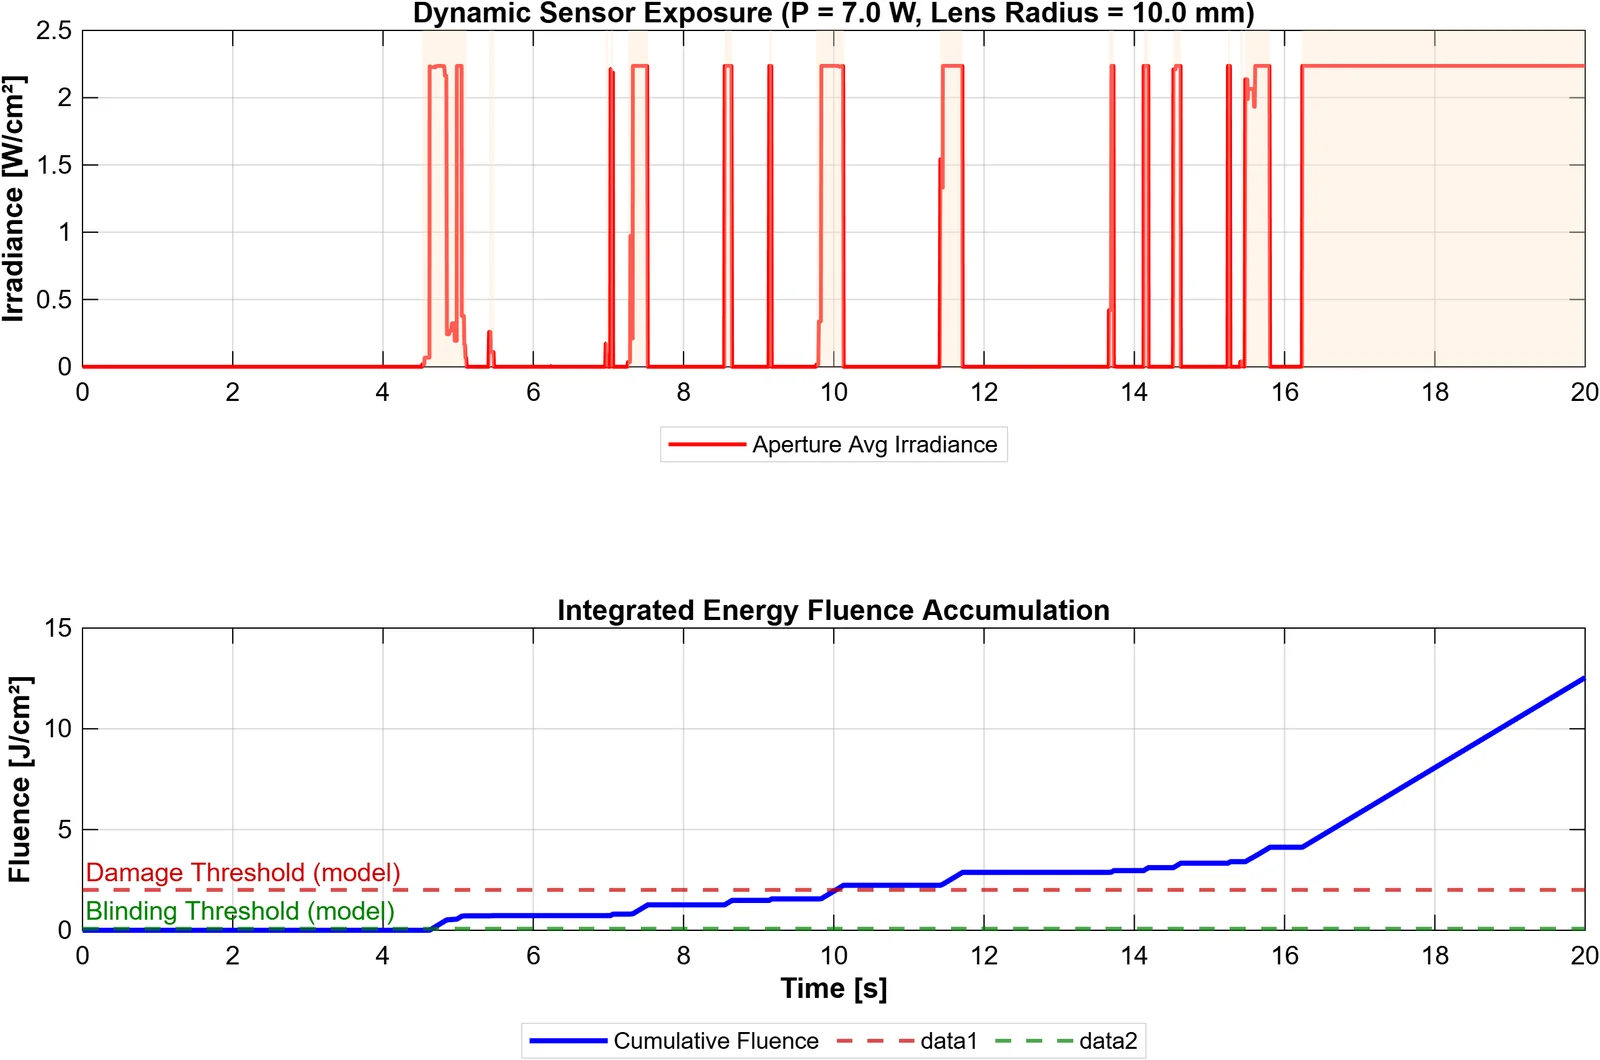
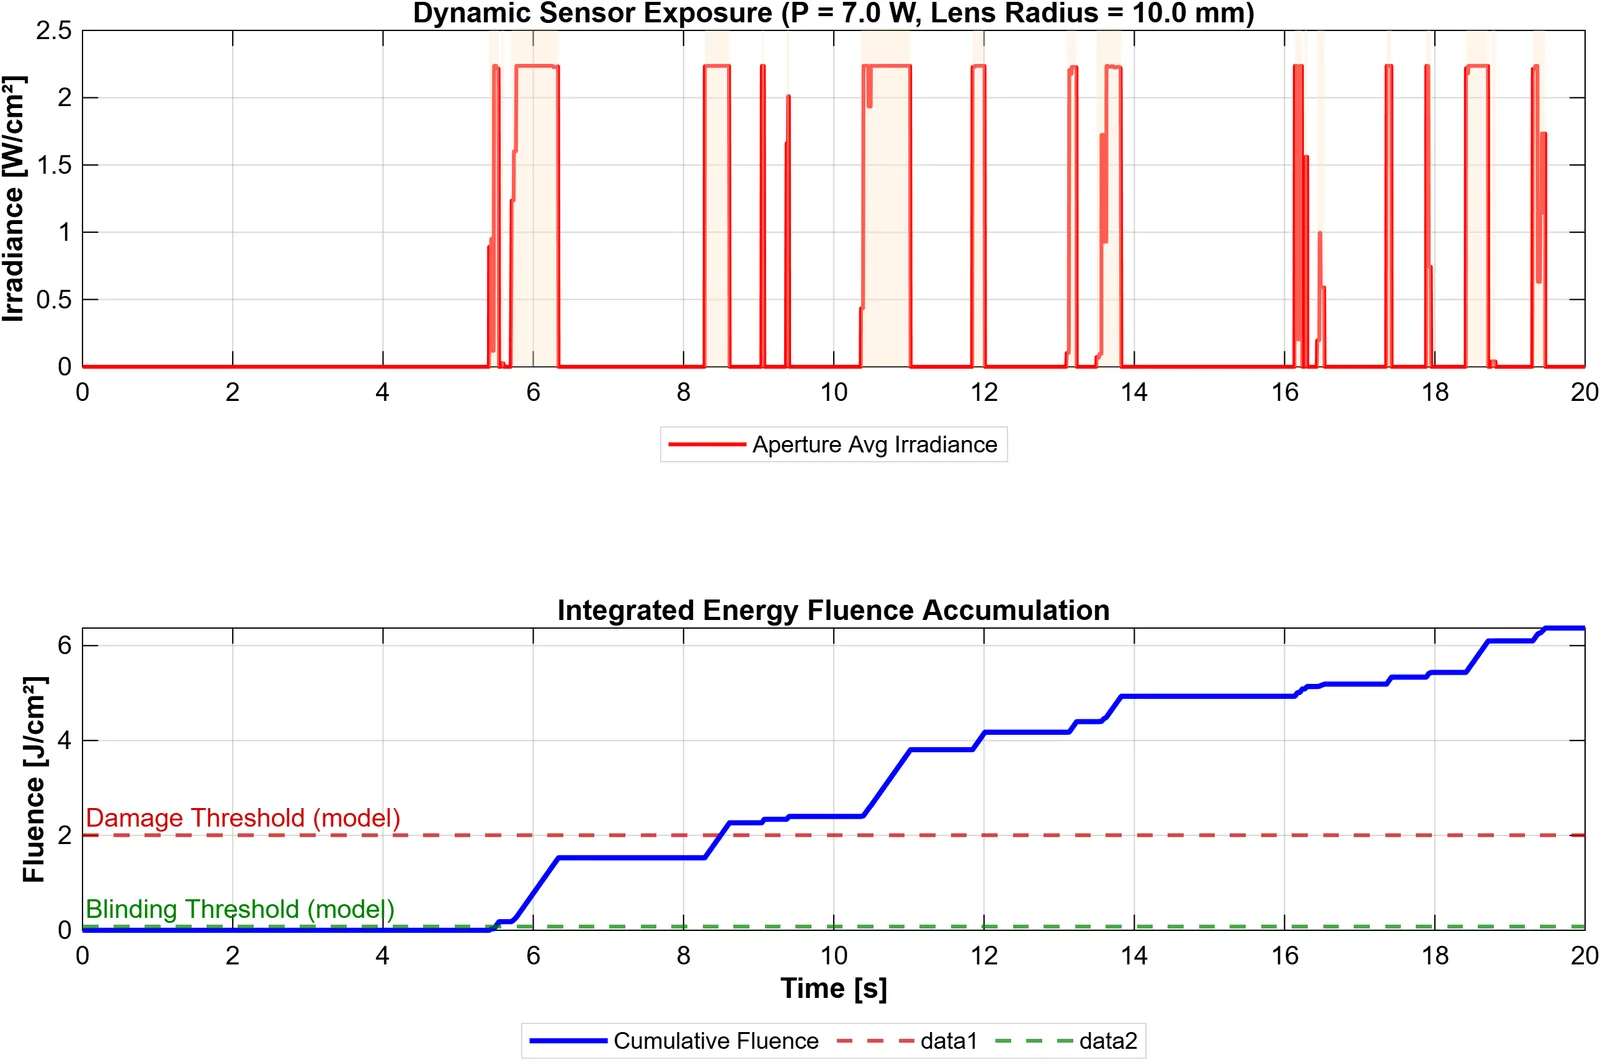
v2 thesis

diff --git a/thesis.html b/thesis.html
@@ -144,14 +144,6 @@
     </div>
     <p class="mono pipeline-loop" data-reveal><i class="fas fa-rotate-left"></i> Loop closes on every camera frame</p>
 
-    <div class="media-grid" style="margin-top: 40px">
-      <figure class="figure span-2" data-reveal style="max-width:720px;width:100%;margin-inline:auto">
-        <a class="figure-media slot light ratio-contain" style="aspect-ratio:1128/1002" data-slot="thesis/media/architecture" data-alt="System flowchart" data-caption="System flowchart — From YOLO detection and Kalman filtering, through control, servo and physics simulation, to the fire / no-fire decision." data-lightbox="thesis">
-          <div class="slot-empty"><i class="fas fa-image"></i><span>System flowchart — coming soon</span><code></code></div>
-        </a>
-        <figcaption><b>System flowchart</b><span>From YOLO detection and Kalman filtering, through control, servo and physics simulation, to the fire / no-fire decision.</span></figcaption>
-      </figure>
-    </div>
   </div>
 </section>
 
@@ -165,11 +157,17 @@
     </div>
 
     <div class="media-grid">
-      <figure class="figure span-2" data-reveal>
-        <a class="figure-media slot light ratio-contain" style="aspect-ratio:2410/1398" data-slot="thesis/media/tracking-response" data-alt="Gimbal tracking performance" data-caption="Gimbal tracking performance — Yaw and pitch following a live YOLO-fed target, with total pointing error below." data-lightbox="thesis">
-          <div class="slot-empty"><i class="fas fa-image"></i><span>Live tracking performance — coming soon</span><code></code></div>
+      <figure class="figure" data-reveal>
+        <a class="figure-media slot light ratio-contain" style="aspect-ratio:16/10" data-slot="thesis/media/tracking-response" data-alt="Simulated tracking performance" data-caption="Simulated tracking performance — Yaw and pitch following a YOLO-fed target in the end-to-end Simulink framework, with the total pointing error below." data-lightbox="thesis">
+          <div class="slot-empty"><i class="fas fa-image"></i><span>Simulated tracking performance — coming soon</span><code></code></div>
         </a>
-        <figcaption><b>Gimbal tracking performance</b><span>Yaw and pitch following a live YOLO-fed target, with the total pointing error below.</span></figcaption>
+        <figcaption><b>Simulated tracking performance</b><span>Yaw and pitch following a YOLO-fed target in the end-to-end Simulink framework, with the total pointing error below.</span></figcaption>
+      </figure>
+      <figure class="figure" data-reveal style="--d:.06s">
+        <a class="figure-media slot light ratio-contain" style="aspect-ratio:16/10" data-slot="thesis/media/ga-performance" data-alt="Genetic-algorithm controller tuning" data-caption="Genetic-algorithm controller tuning — Best ISMC gain set found by the GA: α and β tracking, tracking error, and the performance metrics it optimises." data-lightbox="thesis">
+          <div class="slot-empty"><i class="fas fa-image"></i><span>Genetic-algorithm controller tuning — coming soon</span><code></code></div>
+        </a>
+        <figcaption><b>Genetic-algorithm controller tuning</b><span>Best ISMC gain set found by the GA: α and β tracking, tracking error, and the performance metrics it optimises.</span></figcaption>
       </figure>
     </div>
   </div>
@@ -186,16 +184,16 @@
 
     <div class="media-grid">
       <figure class="figure" data-reveal>
-        <a class="figure-media slot light ratio-contain" style="aspect-ratio:4/3" data-slot="thesis/media/prototype" data-alt="Full assembly in Siemens NX" data-caption="Full assembly in Siemens NX — Gimbal, actuators and electronics enclosure of the C-UAS platform." data-lightbox="thesis">
-          <div class="slot-empty"><i class="fas fa-image"></i><span>Full assembly in Siemens NX — coming soon</span><code></code></div>
+        <a class="figure-media slot" style="aspect-ratio:1/1" data-slot="thesis/media/prototype" data-alt="The real gimbal" data-caption="The real gimbal — Assembled prototype: 3D-printed yaw–pitch gimbal, servo actuators and the Pixhawk controller." data-lightbox="thesis">
+          <div class="slot-empty"><i class="fas fa-image"></i><span>The real gimbal — coming soon</span><code></code></div>
         </a>
-        <figcaption><b>Full assembly in Siemens NX</b><span>Gimbal, actuators and electronics enclosure of the C-UAS platform.</span></figcaption>
+        <figcaption><b>The real gimbal</b><span>Assembled prototype: 3D-printed yaw–pitch gimbal, servo actuators and the Pixhawk controller.</span></figcaption>
       </figure>
       <figure class="figure" data-reveal style="--d:.06s">
-        <a class="figure-media slot light ratio-contain" style="aspect-ratio:4/3" data-slot="thesis/media/cad-render" data-alt="2-axis gimbal" data-caption="2-axis gimbal — Yaw and pitch stages designed around the servo actuators." data-lightbox="thesis">
-          <div class="slot-empty"><i class="fas fa-image"></i><span>2-axis gimbal — coming soon</span><code></code></div>
+        <a class="figure-media slot light ratio-contain" style="aspect-ratio:1/1" data-slot="thesis/media/cad-render" data-alt="CAD assembly" data-caption="CAD assembly — Final assembly in Siemens NX, designed around the servos and the flight controller." data-lightbox="thesis">
+          <div class="slot-empty"><i class="fas fa-image"></i><span>CAD assembly — coming soon</span><code></code></div>
         </a>
-        <figcaption><b>2-axis gimbal</b><span>Yaw and pitch stages designed around the servo actuators.</span></figcaption>
+        <figcaption><b>CAD assembly</b><span>Final assembly in Siemens NX, designed around the servos and the flight controller.</span></figcaption>
       </figure>
     </div>
   </div>
@@ -206,41 +204,45 @@
   <div class="wrap">
     <div class="section-head" data-reveal>
       <span class="eyebrow laser">Results</span>
-      <h2>Field tests &amp; findings</h2>
-      <p>Headline numbers will be published after the thesis defence in November 2026.</p>
+      <h2>Live hardware test with a 7 W laser model</h2>
+      <p>The prototype tracked a moving hand target at roughly 1 m for a 20 s run. The recorded tracking data were then fed into the laser exposure model for a 7 W laser and a camera sensor of 10 mm radius.</p>
     </div>
 
-    <!-- RESULTS: replace "—" with the value, and remove class "pending" from the .metric -->
-    <div class="metrics">
-      <div class="card metric pending" data-reveal>
-        <span class="mono">Simulation · evasive target</span>
-        <span class="value">—<small>%</small></span>
-        <span class="label">Time on Target over an engagement</span>
+    <div class="metrics metrics-4">
+      <div class="card metric" data-reveal>
+        <span class="mono">Time on target · 10 mm-radius sensor</span>
+        <span class="value">16.8<small>%</small></span>
+        <span class="label">3.36 s of the 20 s run with the beam on a sensor of 10 mm radius</span>
       </div>
-      <div class="card metric pending" data-reveal style="--d:.06s">
-        <span class="mono">Field test</span>
-        <span class="value">—<small>mrad</small></span>
-        <span class="label">RMS pointing error while tracking</span>
+      <div class="card metric" data-reveal style="--d:.05s">
+        <span class="mono">Cumulative fluence</span>
+        <span class="value">6.37<small>J/cm²</small></span>
+        <span class="label">Above the modelled damage threshold of about 2 J/cm²</span>
       </div>
-      <div class="card metric pending" data-reveal style="--d:.12s">
-        <span class="mono">Field test</span>
-        <span class="value">—<small>m</small></span>
-        <span class="label">Range at which lock was held</span>
+      <div class="card metric" data-reveal style="--d:.1s">
+        <span class="mono">Time to sensor damage</span>
+        <span class="value">≈ 8.5<small>s</small></span>
+        <span class="label">From the start of the run, at ≈ 1 m range</span>
+      </div>
+      <div class="card metric" data-reveal style="--d:.15s">
+        <span class="mono">Median tracking error</span>
+        <span class="value">&lt; 1<small>°</small></span>
+        <span class="label">0.93° yaw · 0.64° pitch (IMU-measured vs desired)</span>
       </div>
     </div>
 
     <div class="media-grid" style="margin-top: 32px">
       <figure class="figure" data-reveal>
-        <a class="figure-media slot" style="aspect-ratio:3/2" data-slot="thesis/media/live-tracking" data-alt="Live hardware-in-the-loop test" data-caption="Live hardware-in-the-loop test — Webcam target tracking at ~30 fps, with angles streamed to the MATLAB controller." data-lightbox="thesis">
-          <div class="slot-empty"><i class="fas fa-image"></i><span>Live hardware-in-the-loop test — coming soon</span><code></code></div>
+        <a class="figure-media slot" style="aspect-ratio:638/390" data-slot="thesis/media/live-tracking" data-alt="Live target detection" data-caption="Live target detection — Open-palm target detected at ~30 fps; the yaw and pitch angles are streamed to the controller on the Pixhawk." data-lightbox="thesis">
+          <div class="slot-empty"><i class="fas fa-image"></i><span>Live target detection — coming soon</span><code></code></div>
         </a>
-        <figcaption><b>Live hardware-in-the-loop test</b><span>Webcam target tracking at ~30 fps, with angles streamed to the MATLAB controller.</span></figcaption>
+        <figcaption><b>Live target detection</b><span>Open-palm target detected at ~30 fps; the yaw and pitch angles are streamed to the controller on the Pixhawk.</span></figcaption>
       </figure>
       <figure class="figure" data-reveal style="--d:.06s">
-        <a class="figure-media slot light ratio-contain" style="aspect-ratio:3/2" data-slot="thesis/media/envelope" data-alt="Laser exposure at 0.8 W" data-caption="Laser exposure at 0.8 W — Irradiance on the sensor aperture and accumulated fluence, against modelled blinding and damage thresholds." data-lightbox="thesis">
-          <div class="slot-empty"><i class="fas fa-image"></i><span>Laser exposure at 0.8 W — coming soon</span><code></code></div>
+        <a class="figure-media slot light ratio-contain" style="aspect-ratio:638/390" data-slot="thesis/media/laser-7w" data-alt="Sensor exposure at 7 W" data-caption="Sensor exposure at 7 W — Irradiance on a 10 mm-radius sensor and the accumulated fluence, against the modelled blinding and damage thresholds." data-lightbox="thesis">
+          <div class="slot-empty"><i class="fas fa-image"></i><span>Sensor exposure at 7 W — coming soon</span><code></code></div>
         </a>
-        <figcaption><b>Laser exposure at 0.8 W</b><span>Irradiance on the sensor aperture and accumulated fluence, against modelled blinding and damage thresholds.</span></figcaption>
+        <figcaption><b>Sensor exposure at 7 W</b><span>Irradiance on a 10 mm-radius sensor and the accumulated fluence, against the modelled blinding and damage thresholds.</span></figcaption>
       </figure>
     </div>
 

diff --git a/style.css b/style.css
@@ -529,3 +529,7 @@ var(--bg-2);
 /* Plots and CAD renders with white backgrounds */
 .figure-media.light { background: #f5f6f8; }
 .figure-media.light.ratio-contain img { padding: 12px; object-fit: contain; }
+
+.metrics-4 { grid-template-columns: repeat(4, minmax(0, 1fr)); }
+@media (max-width: 1000px) { .metrics-4 { grid-template-columns: repeat(2, minmax(0, 1fr)); } }
+@media (max-width: 560px) { .metrics-4 { grid-template-columns: 1fr; } }
